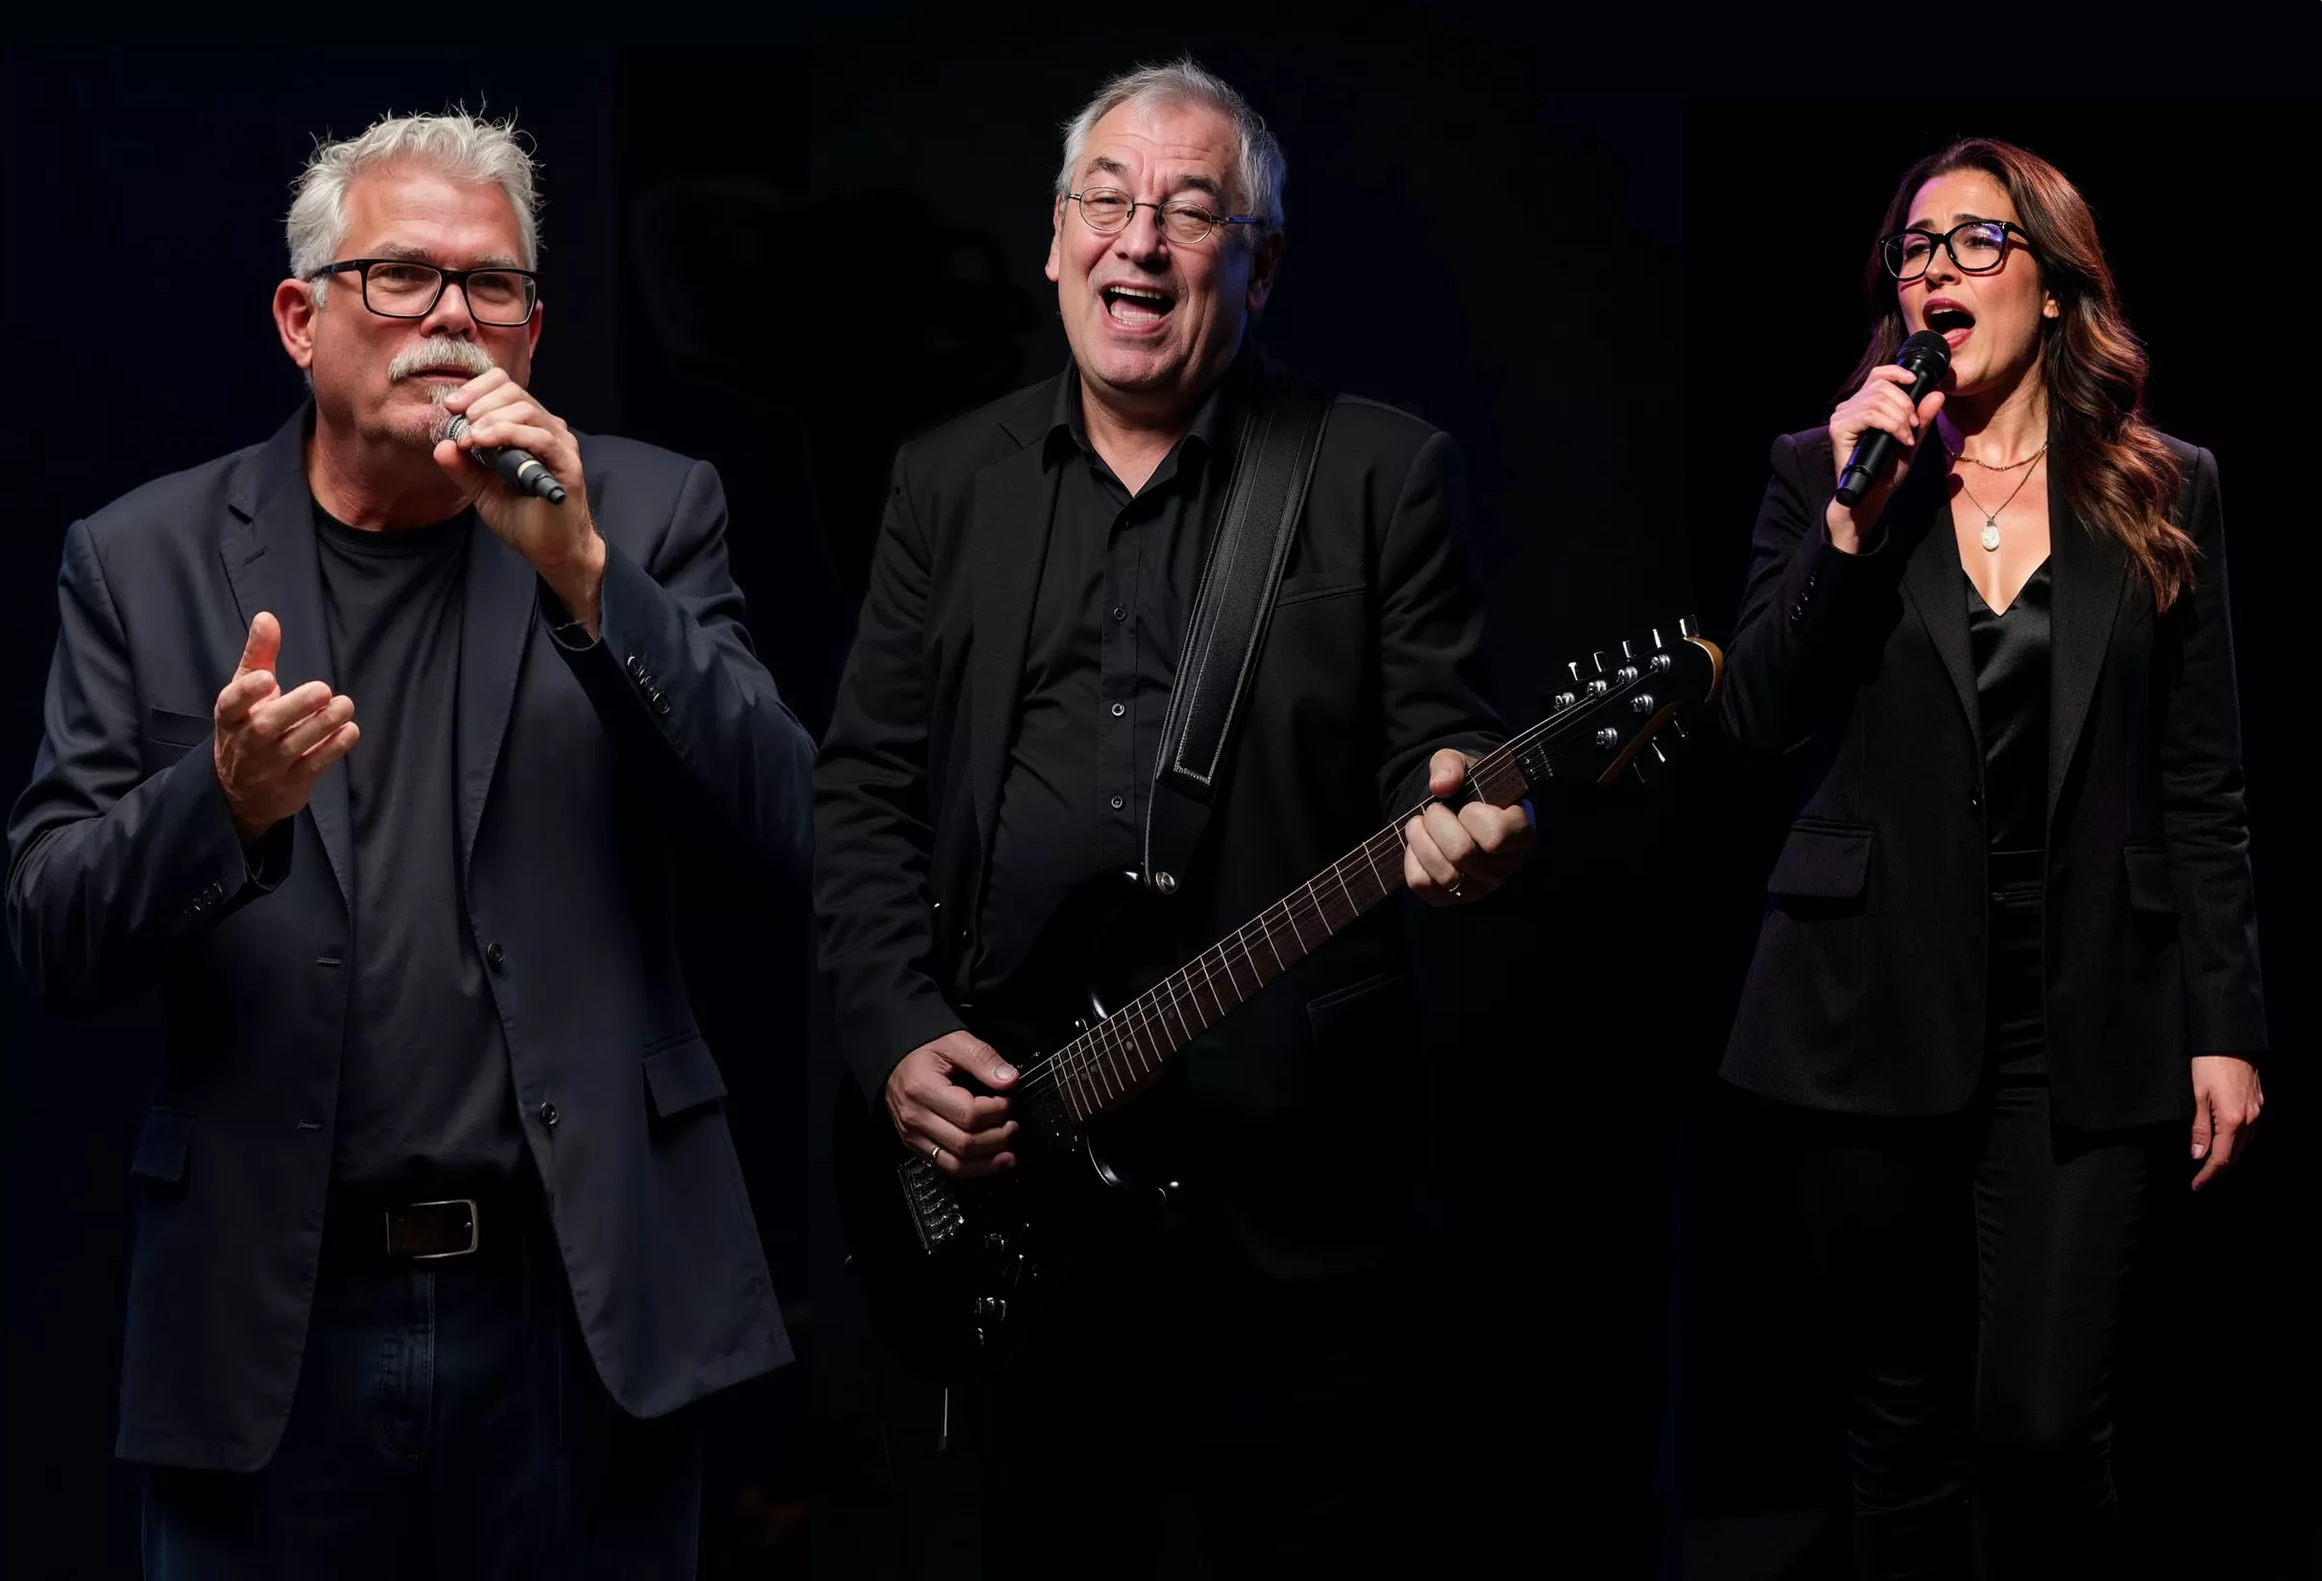
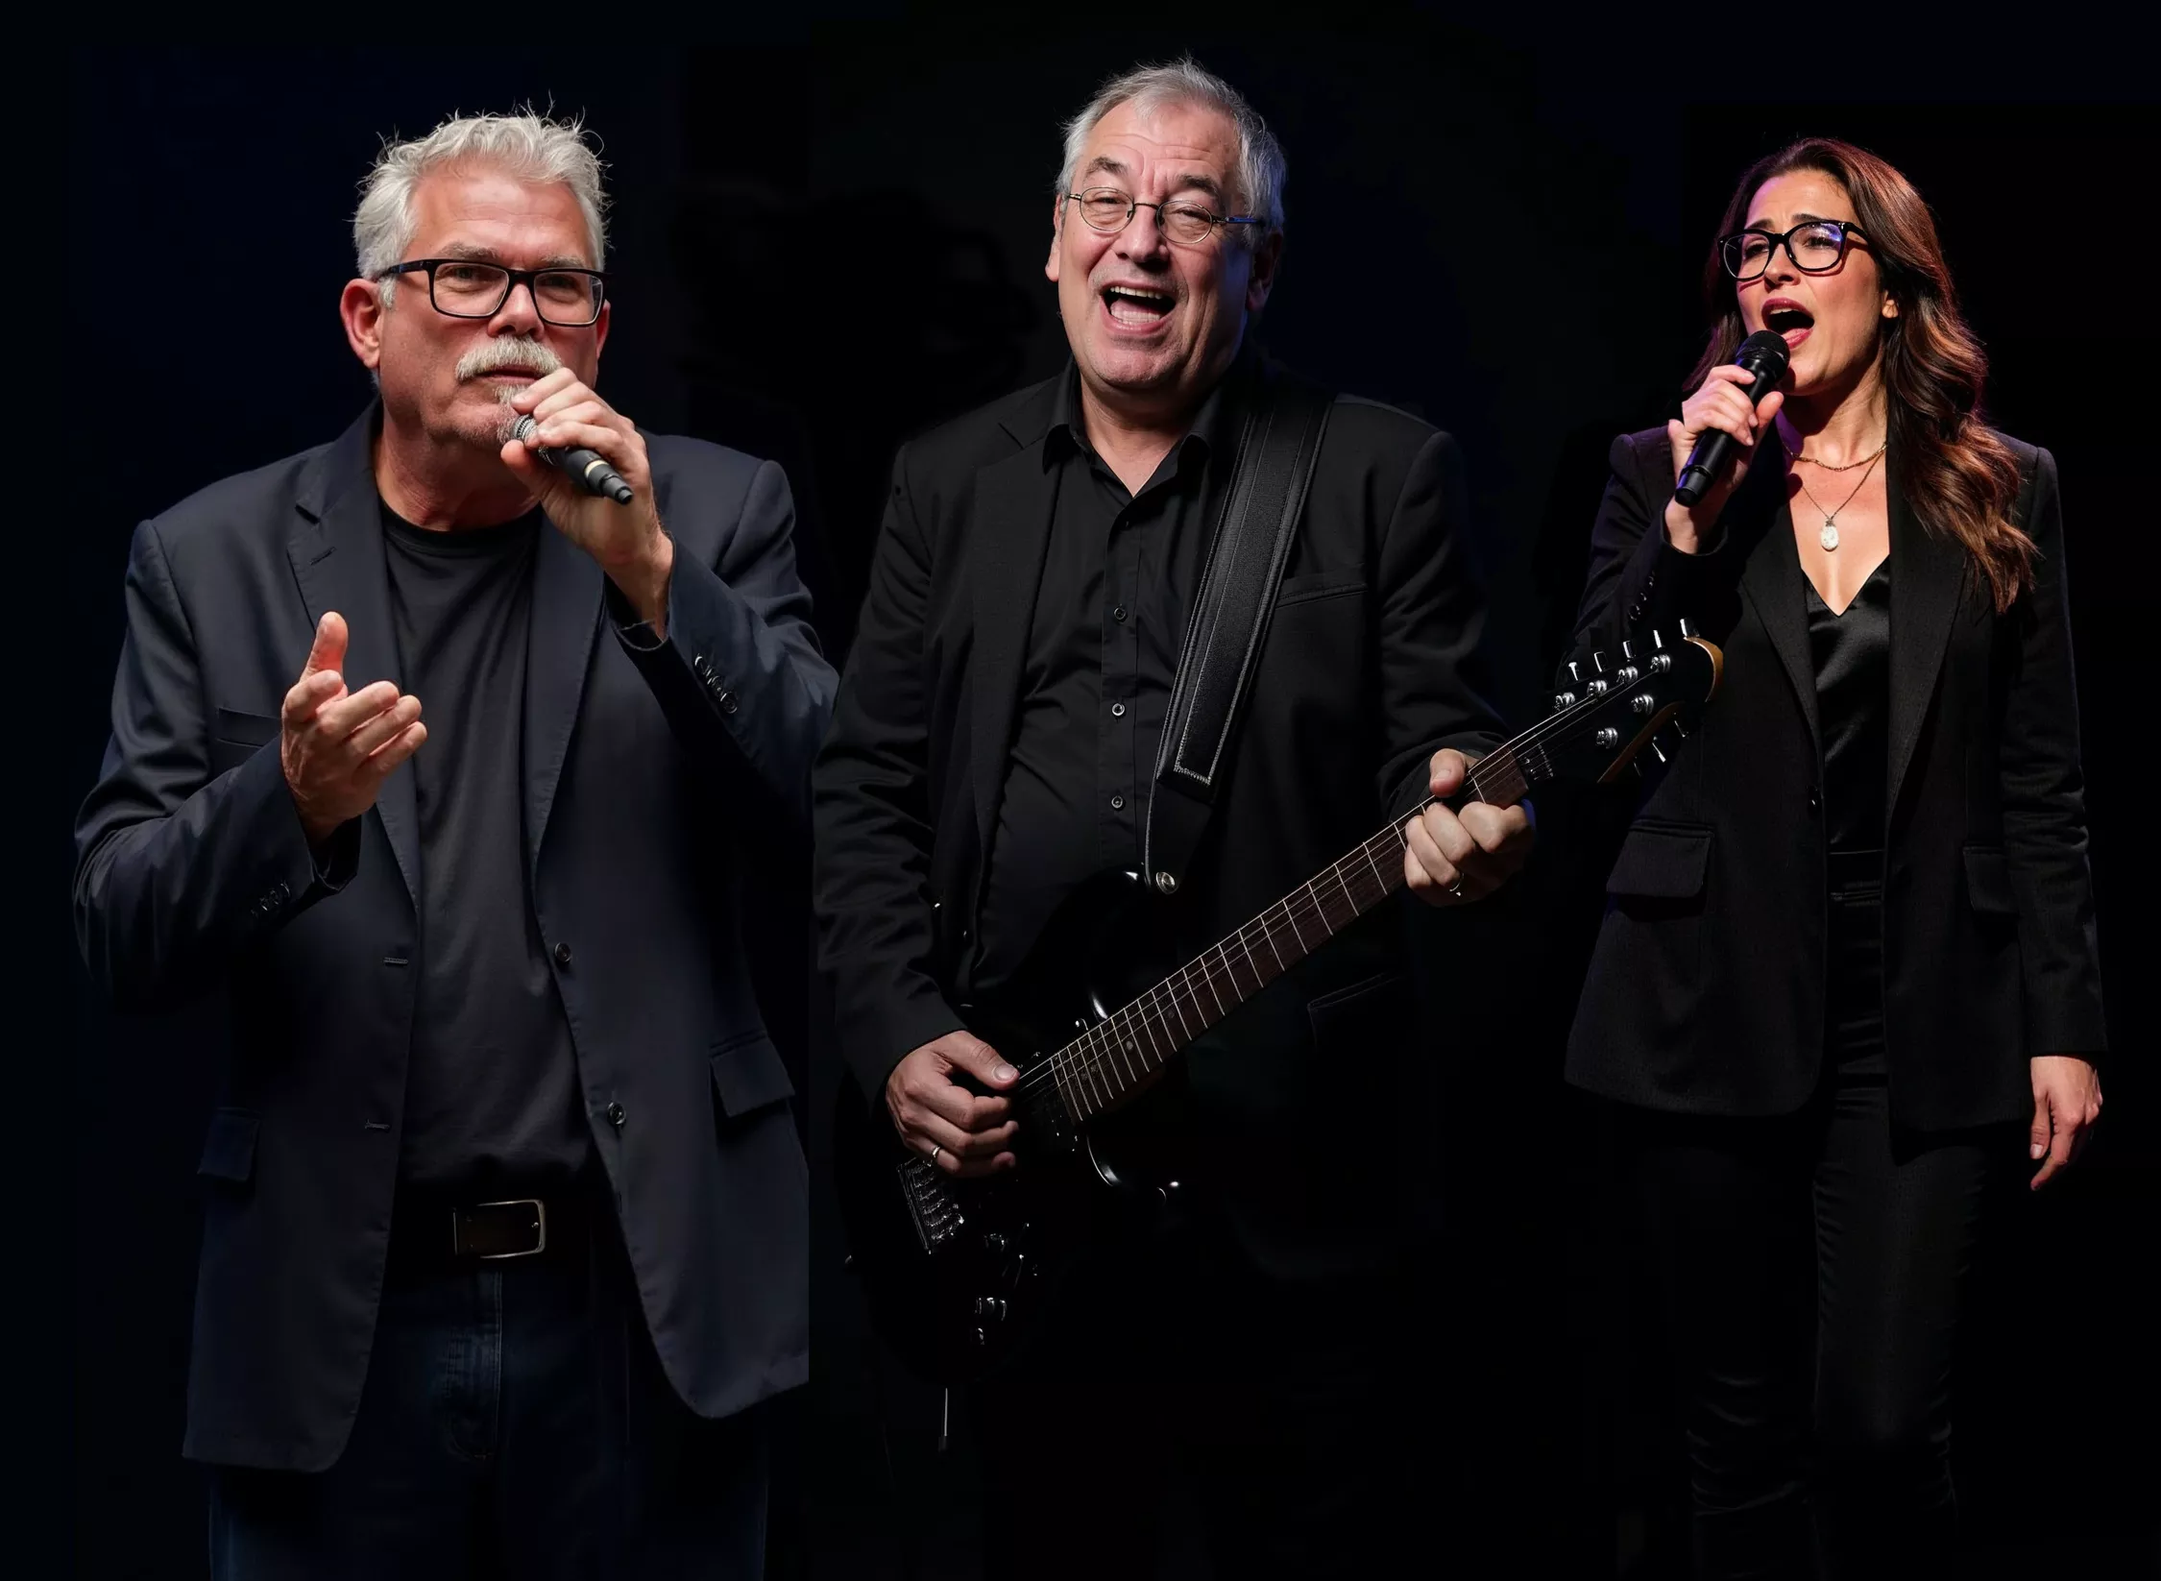
feat: better mobile view and images

diff --git a/index.html b/index.html
@@ -13,6 +13,7 @@
         <nav class="container px-4 py-3">
             <div class="navbar navbar-dark navbar-expand-lg p-0">
                 <a href="/" class="text-primary text-decoration-none fw-bold font-renfrew responsive-logo">Two And A Box</a>
+                <a href="tel:+491776332335" class="text-primary ms-auto me-3 d-lg-none phone-icon"><i class="fas fa-square-phone"></i></a>
                 <button class="navbar-toggler" type="button" data-bs-toggle="collapse" data-bs-target="#navbarNav" aria-controls="navbarNav" aria-expanded="false" aria-label="Toggle navigation">
                     <span class="navbar-toggler-icon"></span>
                 </button>
@@ -34,6 +35,7 @@
                         <a class="nav-link text-light hover-warning" href="#kontakt">Kontakt</a>
                     </li>
                     </ul>
+                    <a href="tel:+491776332335" class="text-primary ms-3 d-none d-lg-block phone-icon"><i class="fas fa-square-phone"></i></a>
                 </div>
             </div>
         </nav>
@@ -45,7 +47,7 @@
                 <div class="row align-items-center g-4">
                     <div class="col-lg-6">
                         <div class="rounded overflow-hidden">
-                            <img src="images/Three_Panel_Color.webp" alt="Two And A Box performing live" class="img-fluid object-fit-cover rounded">
+                            <img src="images/All_Three_Rockig_Stage.webp" alt="Two And A Box performing live" class="img-fluid object-fit-cover rounded">
                         </div>
                     </div>
                     <div class="col-lg-6">
@@ -56,7 +58,6 @@
                         </p>
                         <div class="d-flex gap-3 flex-wrap">
                             <a href="#kontakt" class="btn btn-warning btn-lg rounded-3">Jetzt kontaktieren</a>
-                            <a href="tel:+491721234567" class="btn btn-warning btn-lg rounded-3 d-lg-none">Jetzt anrufen</a>
                         </div>
                     </div>
                 </div>
@@ -172,7 +173,7 @@
                     </div>
                     <div class="col-lg-4">
                         <div class="card bg-light text-light h-100 formation-card">
-                            <img src="images/Sybilla_stage_black_dress.webp" class="card-img-top" alt="Duo">
+                            <img src="images/Rainer_Sybilla_Rockig_Stage.webp" class="card-img-top" alt="Duo">
                             <div class="card-body">
                                 <h3 class="card-title h4 text-primary mb-3">Duo</h3>
                                 <p class="card-text">Gitarre und Gesang im harmonischen Zusammenspiel. Ideal für mittelgroße Events mit breitem musikalischem Spektrum.</p>
@@ -181,7 +182,7 @@
                     </div>
                     <div class="col-lg-4">
                         <div class="card bg-light text-light h-100 formation-card">
-                            <img src="images/Rainer_grosse_Buehne.webp" class="card-img-top" alt="Trio">
+                            <img src="images/three_shot_pic.webp" class="card-img-top" alt="Trio">
                             <div class="card-body">
                                 <h3 class="card-title h4 text-primary mb-3">Trio</h3>
                                 <p class="card-text">Die volle Bandbreite mit Cajon/Percussion. Kraftvoller Sound für große Veranstaltungen und Festivals.</p>
@@ -195,7 +196,7 @@
         <section id="programm" class="py-5 bg-gray-800">
             <div class="container px-4">
                 <div class="row align-items-center g-4">
-                    <div class="col-lg-6 order-lg-2">
+                    <div class="col-lg-6 order-lg-2 order-2">
                         <div class="song-table-container">
                             <h4 class="text-primary mb-3">Unser Repertoire</h4>
                             <div class="search-container mb-3">
@@ -223,7 +224,7 @@
                             </div>
                         </div>
                     </div>
-                    <div class="col-lg-6 order-lg-1">
+                    <div class="col-lg-6 order-lg-1 order-1">
                         <h2 class="display-5 fw-bold text-primary mb-4">Programm</h2>
                         <p class="lead text-light">
                             Unser Programm umfasst eine breite Palette von Genres, von Jazz-Klassikern über Pop-Hits bis hin zu eigenen Kompositionen. Wir gestalten jede Performance individuell, um Ihrem Event die perfekte Atmosphäre zu verleihen.

diff --git a/data_policy.html b/data_policy.html
@@ -13,6 +13,7 @@
         <nav class="container px-4 py-3">
             <div class="navbar navbar-dark navbar-expand-lg p-0">
                 <a href="/" class="text-primary text-decoration-none fw-bold font-renfrew responsive-logo">Two And A Box</a>
+                <a href="tel:+491776332335" class="text-primary ms-auto me-3 d-lg-none phone-icon"><i class="fas fa-square-phone"></i></a>
                 <button class="navbar-toggler" type="button" data-bs-toggle="collapse" data-bs-target="#navbarNav" aria-controls="navbarNav" aria-expanded="false" aria-label="Toggle navigation">
                     <span class="navbar-toggler-icon"></span>
                 </button>
@@ -34,6 +35,7 @@
                             <a class="nav-link text-light hover-warning" href="/#kontakt">Kontakt</a>
                         </li>
                     </ul>
+                    <a href="tel:+491776332335" class="text-primary ms-3 d-none d-lg-block phone-icon"><i class="fas fa-square-phone"></i></a>
                 </div>
             </div>
         </nav>

diff --git a/impressum.html b/impressum.html
@@ -13,6 +13,7 @@
         <nav class="container px-4 py-3">
             <div class="navbar navbar-dark navbar-expand-lg p-0">
                 <a href="/" class="text-primary text-decoration-none fw-bold font-renfrew responsive-logo">Two And A Box</a>
+                <a href="tel:+491776332335" class="text-primary ms-auto me-3 d-lg-none phone-icon"><i class="fas fa-square-phone"></i></a>
                 <button class="navbar-toggler" type="button" data-bs-toggle="collapse" data-bs-target="#navbarNav" aria-controls="navbarNav" aria-expanded="false" aria-label="Toggle navigation">
                     <span class="navbar-toggler-icon"></span>
                 </button>
@@ -34,6 +35,7 @@
                             <a class="nav-link text-light hover-warning" href="/#kontakt">Kontakt</a>
                         </li>
                     </ul>
+                    <a href="tel:+491776332335" class="text-primary ms-3 d-none d-lg-block phone-icon"><i class="fas fa-square-phone"></i></a>
                 </div>
             </div>
         </nav>

diff --git a/styles.css b/styles.css
@@ -298,7 +298,7 @@ section {
 }
 
 .bg-gray-800 {
-  background-color: #160b16;
+  background-color: #190F1B;
 }
 
 .bg-light {
@@ -332,6 +332,7 @@ section {
   width: 100%;
   height: 300px;
   object-fit: cover;
+  object-position: center top !important;
 }
 
 .min-vh-70 {
@@ -505,4 +506,48 @@ section {
 
 footer {
   font-weight: 500;
+  border-top: 1px solid #272727;
+}
+
+footer.text-primary {
+  border-top: none !important;
+}
+
+
+/* Link colors */
+a {
+  color: #fbff00;
+}
+
+a:visited {
+  color: #fbff00;
+}
+
+a.btn {
+  color: #000;
+}
+
+a:visited.btn {
+  color: #000;
+}
+
+/* Phone icon styling */
+.phone-icon {
+  font-size: 1.2rem;
+  display: flex;
+  align-items: center;
+  justify-content: center;
+}
+
+.phone-icon:hover {
+  color: var(--bs-warning) !important;
+  transition: color 0.3s ease;
+}
+
+.fa-square-phone {
+  font-size: 1.5rem !important;
+}
+
+.card {
+  border: 1px solid rgba(204, 255, 0, 0.205);
 }

diff --git a/main.js b/main.js
@@ -21,6 +21,15 @@ document.querySelectorAll('a[href^="#"]').forEach(anchor => {
         const targetId = this.getAttribute('href');
         const targetElement = document.querySelector(targetId);
         
+        // Check if burger menu is open and we're on mobile
+        const navbarCollapse = document.getElementById('navbarNav');
+        const bsCollapse = bootstrap.Collapse.getInstance(navbarCollapse);
+        
+        // If the menu is open and we're on mobile, close it
+        if (window.innerWidth < 992 && bsCollapse && navbarCollapse.classList.contains('show')) {
+            bsCollapse.hide();
+        }
+        
         if (targetElement) {
             targetElement.scrollIntoView({
                 behavior: 'smooth',
